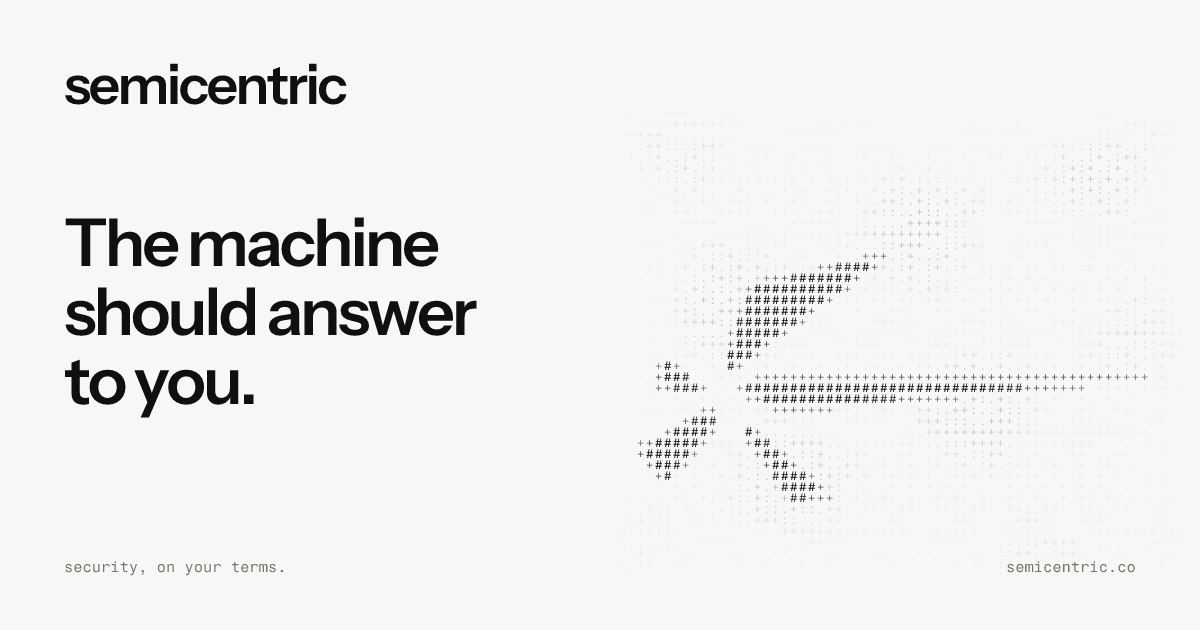
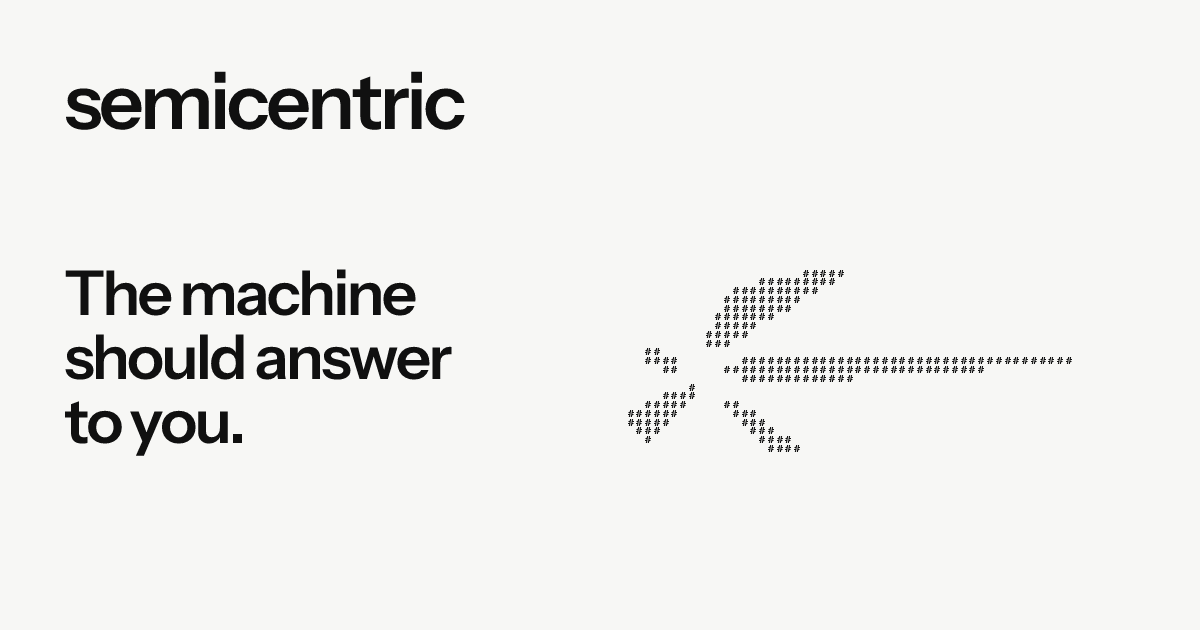
Simplify social preview typography and clean ASCII emblem

diff --git a/scripts/generate-og.tsx b/scripts/generate-og.tsx
@@ -21,47 +21,44 @@ async function font(family: string, weight: number) {
 }
 const [display, mono] = await Promise.all([
   font("Instrument Sans", 600),
-  font("Fragment Mono", 400),
+  font("IBM Plex Mono", 700),
 ]);
 
-// Sample the real emblem into a character grid. The deterministic surrounding
-// field echoes the homepage's ASCII animation without using project cards.
-const columns = 64;
-const rows = 44;
+// Render directly into a square-cell grid, preserving the emblem's aspect
+// ratio. One solid glyph and a hard coverage threshold keep the silhouette
+// crisp; no background noise or translucent fringe characters.
+const columns = 60;
+const rows = 25;
+const cell = 526 / columns;
 const mark = readFileSync("public/logo.svg", "utf8")
-  .replace(/viewBox="[^"]+"/, 'viewBox="20 70 470 350"')
-  .replace(/width="[^"]+"/, `width="${columns}"`)
-  .replace(/height="[^"]+"/, `height="${rows}"`);
-const raster = new Resvg(mark, { fitTo: { mode: "width", value: columns } }).render();
+  .replace(/viewBox="[^"]+"/, 'viewBox="31 164 450 187.5"')
+  .replace("<svg ", `<svg width="${columns}" height="${rows}" `);
+const raster = new Resvg(mark).render();
 const pixels = raster.pixels;
 const glyphs = [];
 for (let y = 0; y < rows; y++) {
   for (let x = 0; x < columns; x++) {
-    const alpha = pixels[(y * columns + x) * 4 + 3] / 255 || 0;
-    const wave = Math.sin(x * 0.19 + y * 0.12) * Math.cos(y * 0.23 - x * 0.08);
-    const noise = ((x * 73 + y * 137 + x * y * 11) % 101) / 100;
-    const edge = Math.min(1, x / 8, (columns - x) / 9, y / 7, (rows - y) / 7);
-    const opacity = alpha > 0.15 ? 0.5 + alpha * 0.5 : (0.05 + Math.max(0, wave) * 0.22) * edge;
-    const character = alpha > 0.65 ? "#" : alpha > 0.15 ? "+" : noise > 0.7 ? ":" : noise > 0.35 ? "." : "+";
-    glyphs.push(<span key={`${x}-${y}`} style={{ position: "absolute", left: x * 9, top: y * 11, opacity, fontSize: 12, lineHeight: 1 }}>{character}</span>);
+    const alpha = pixels[(y * columns + x) * 4 + 3] / 255;
+    if (alpha < 0.45) continue;
+    glyphs.push(
+      <span key={`${x}-${y}`} style={{ position: "absolute", left: x * cell, top: y * cell, fontSize: 10, lineHeight: 1 }}>#</span>,
+    );
   }
 }
 
 const svg = await satori(
   <div style={{ width: "100%", height: "100%", display: "flex", background: paper, color: ink, fontFamily: "Instrument Sans", overflow: "hidden" }}>
-    <div style={{ position: "absolute", left: 64, top: 51, fontSize: 55, letterSpacing: "-0.045em" }}>semicentric</div>
-    <div style={{ position: "absolute", left: 64, top: 208, display: "flex", flexDirection: "column", fontSize: 66, letterSpacing: "-0.045em", lineHeight: 1.04 }}>
+    <div style={{ position: "absolute", left: 64, top: 53, fontSize: 78, letterSpacing: "-0.045em" }}>semicentric</div>
+    <div style={{ position: "absolute", left: 64, top: 260, display: "flex", flexDirection: "column", fontSize: 62, letterSpacing: "-0.045em", lineHeight: 1.04 }}>
       <span>The machine</span>
       <span>should answer</span>
       <span>to you.</span>
     </div>
-    <div style={{ position: "absolute", left: 610, top: 96, width: 576, height: 484, display: "flex", fontFamily: "Fragment Mono" }}>{glyphs}</div>
-    <div style={{ position: "absolute", left: 64, bottom: 54, fontFamily: "Fragment Mono", fontSize: 15, color: "#75746e" }}>security, on your terms.</div>
-    <div style={{ position: "absolute", right: 64, bottom: 54, fontFamily: "Fragment Mono", fontSize: 15, color: "#75746e" }}>semicentric.co</div>
+    <div style={{ position: "absolute", left: 610, top: 250, width: 526, height: 220, display: "flex", fontFamily: "IBM Plex Mono", fontWeight: 700 }}>{glyphs}</div>
   </div>,
   { width: 1200, height: 630, fonts: [
     { name: "Instrument Sans", data: display, weight: 600, style: "normal" },
-    { name: "Fragment Mono", data: mono, weight: 400, style: "normal" },
+    { name: "IBM Plex Mono", data: mono, weight: 700, style: "normal" },
   ] },
 );
 writeFileSync("public/og-image.png", new Resvg(svg).render().asPng());
